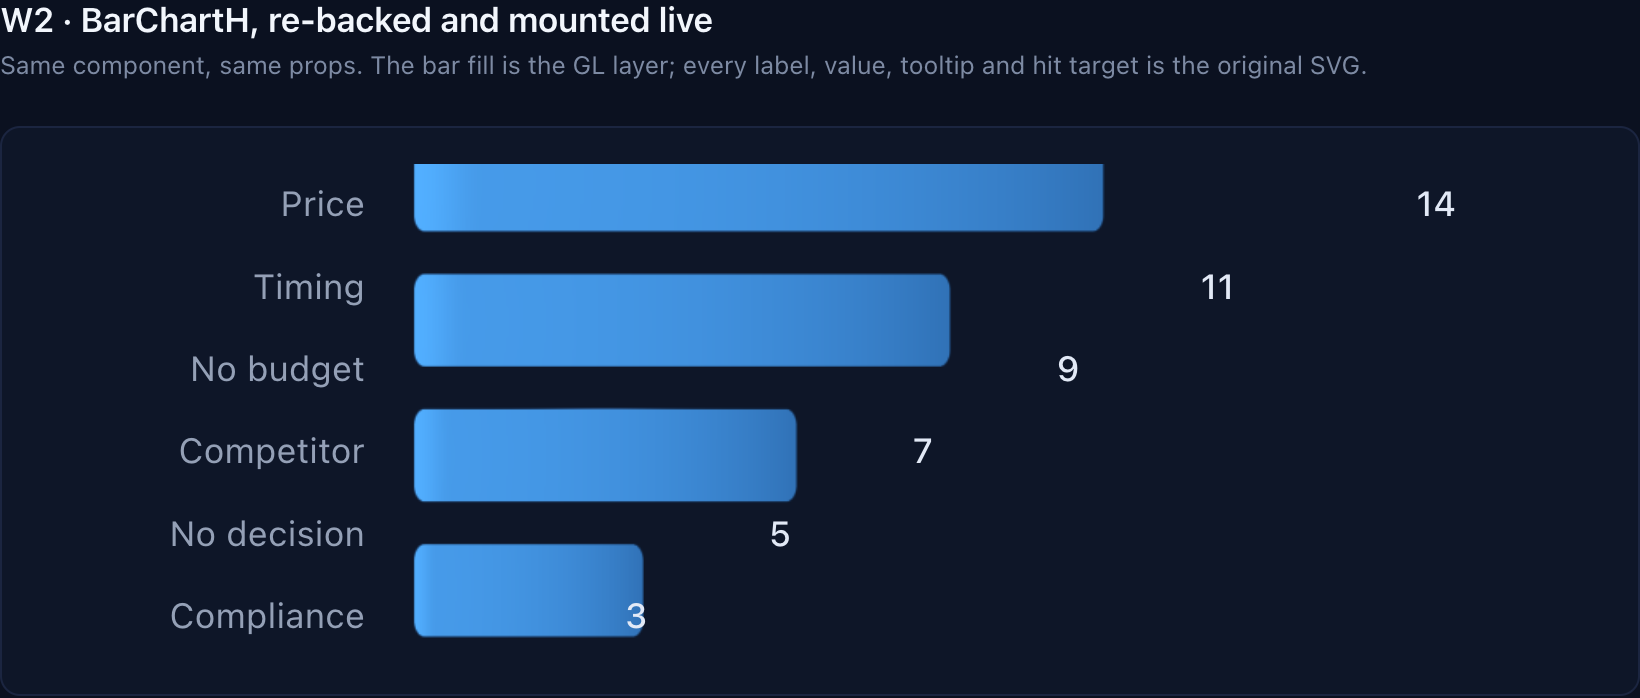
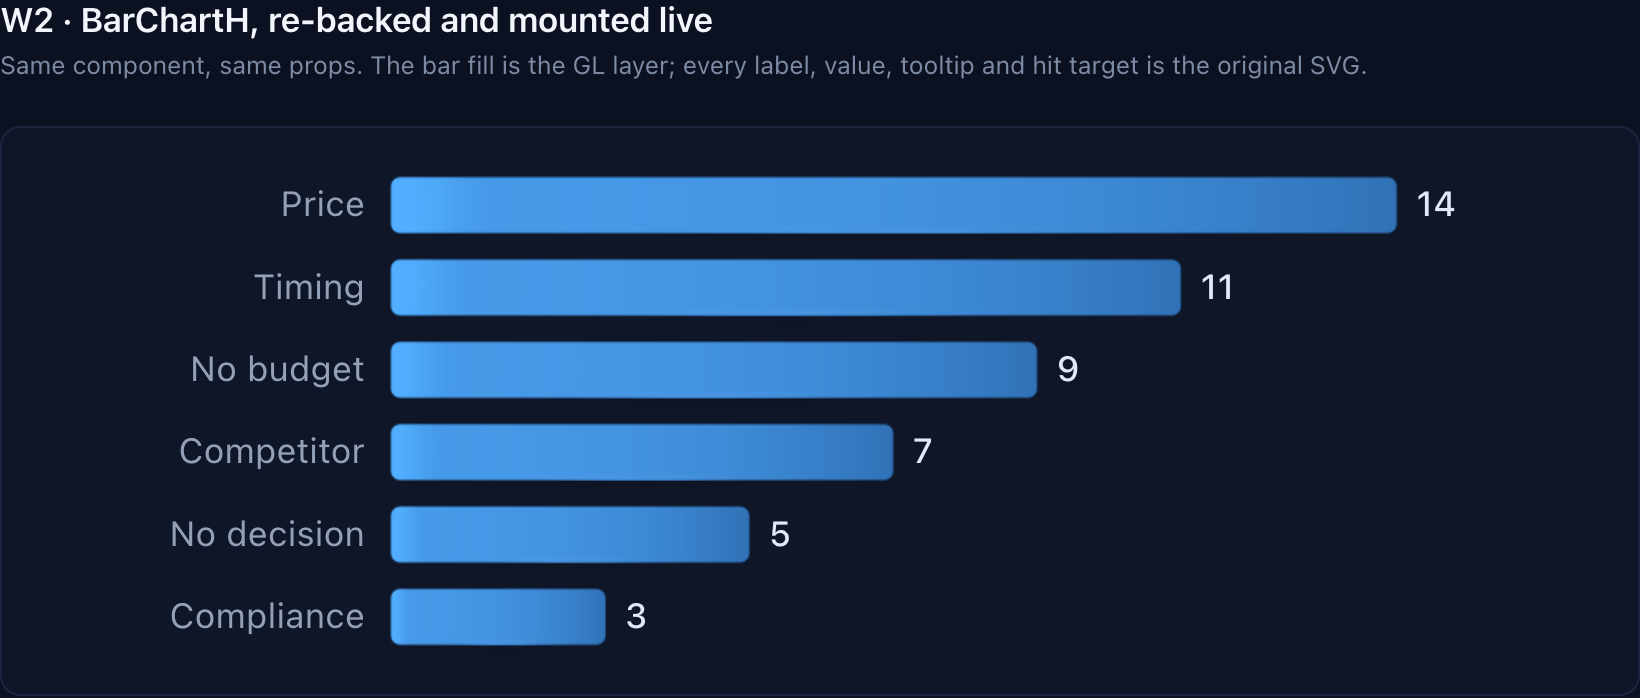
fix(vfx): the BarChartH swap lands — three bugs, all mine, none test-visible
W3's motion shipped with W2 but was unobservable, because no primitive was
swapped and the reason was this. Isolated and fixed.

1. THE VIEWPORT, and it was architectural rather than a slip. bindTarget set the
viewport from the TARGET's size — correct for a stage owning its canvas, silently
wrong for the shared renderer where one 1024x512 buffer serves many charts. It
re-set the viewport to the full buffer AFTER the shared renderer had scissored the
chart's 960x312 region, so every mark rendered 1.64x too large and the bottom rows
fell outside the copied rect. Stage now has a REGION: setRegion(w,h) resizes the
targets and bindTarget reads the viewport from it, reallocating only on an actual
size change so a page of same-sized charts pays for one allocation.

2. The contact shadow did not know which way was down. It hard-coded "below" as
decreasing y; a chart borrowing its host SVG's viewBox counts y DOWNWARD, so the
shadow was cast above each bar and poked through the rounded corner. The direction
is now read off the projection matrix.

3. fwidth(d) — the best of the three. sdRoundRect contains max(q,0) and a length(),
so its derivative is DISCONTINUOUS along the diagonal out of each corner. fwidth
spikes on that seam, the edge smoothstep fires deep inside the shape, and a dark
speck appears — on two bars of six and nothing else, which is exactly the artifact
that gets blamed on the data. The feather now comes from fwidth(p), which is linear
[…]

Changed region(s): [[0.2177, 0.2106, 0.8707, 0.9327]]

diff --git a/packages/gl/src/flat/bars.ts b/packages/gl/src/flat/bars.ts
@@ -101,8 +101,16 @@ void main(){
   vec2 p = (vUV - 0.5) * vSize;
   float r = min(uRadius, min(half_.x, half_.y));
   float d = sdRoundRect(p, half_, r);
-  // One-pixel feather from the exact boundary. Correct at any zoom.
-  float aa = fwidth(d);
+  /* THE FEATHER WIDTH COMES FROM POSITION, NOT FROM THE DISTANCE.
+     This was fwidth(d), which is the obvious form and is wrong: sdRoundRect contains
+     max(q, 0.0) and a length(), so its derivative is DISCONTINUOUS along the diagonal
+     running out of each corner. fwidth spikes on that seam, the smoothstep below fires
+     deep inside the shape, and a small dark speck appears on the diagonal — visible on
+     two of six bars and on nothing else, which is exactly the sort of artifact that gets
+     blamed on the data.
+     p is linear in vUV, so fwidth(p) is constant across the primitive and the feather is
+     one pixel everywhere including across that seam. */
+  float aa = max(fwidth(p.x), fwidth(p.y));
   float mask = 1.0 - smoothstep(-aa, aa, d);
   if (mask <= 0.001) discard;
 
@@ -127,18 +135,26 @@ export const CONTACT_VERT = `#version 300 es
 precision highp float;
 layout(location=0) in vec2 quad;
 layout(location=1) in vec4 rect;
-uniform mat4 uMVP; uniform float uDrop, uSpread, uHorizontal;
+uniform mat4 uMVP; uniform float uDrop, uSpread, uHorizontal, uYSign;
 out vec2 vUV;
 void main(){
   vUV = quad;
+  /* uYSign IS THE PROJECTION'S Y DIRECTION, not an assumption.
+     This shader was written for a y-up plot and hard-coded "below" as y minus drop. A chart
+     borrowing its host SVG's viewBox counts y DOWNWARD, so the shadow was cast ABOVE each
+     bar — mostly hidden behind it, and visible as a dark speck poking through the rounded
+     corner. A shadow that does not know which way is down is not a shadow. */
+  float base = uYSign > 0.0 ? rect.y : rect.w;          // the edge resting on the plate
+  float away = -uYSign;                                  // away from the light, onto the plate
   vec2 lo, hi;
+  float y0 = base + away * (uDrop + uSpread);
+  float y1 = base - away * (uSpread * 0.25);
   if (uHorizontal > 0.5) {
-    // Horizontal bars sit ON the plate; the shadow falls below the whole run.
-    lo = vec2(rect.x, rect.y - uDrop - uSpread);
-    hi = vec2(rect.z + uSpread * 0.5, rect.y + uSpread * 0.25);
+    lo = vec2(rect.x, min(y0, y1));
+    hi = vec2(rect.z + uSpread * 0.5, max(y0, y1));
   } else {
-    lo = vec2(rect.x - uSpread, rect.y - uDrop - uSpread);
-    hi = vec2(rect.z + uSpread, rect.y + uSpread * 0.25);
+    lo = vec2(rect.x - uSpread, min(y0, y1));
+    hi = vec2(rect.z + uSpread, max(y0, y1));
   }
   gl_Position = uMVP * vec4(mix(lo, hi, quad), 0.0, 1.0);
 }`;
@@ -148,10 +164,12 @@ precision highp float;
 in vec2 vUV;
 uniform vec3 uColour; uniform float uStrength;
 out vec4 frag;
+uniform float uContactEdge;
 void main(){
-  // Softest at the top and the edges, densest where the bar meets the plate — which is
-  // where a real contact shadow is densest, and the reason it reads as contact at all.
-  vec2 c = (vUV - vec2(0.5, 1.0));
+  // Softest at the far edge, densest where the bar meets the plate — which is where a real
+  // contact shadow is densest, and the reason it reads as contact at all. uContactEdge
+  // says which end of the quad that is, so the gradient flips with the axis too.
+  vec2 c = (vUV - vec2(0.5, uContactEdge));
   float f = exp(-dot(c * vec2(2.4, 1.6), c * vec2(2.4, 1.6)) * 3.2);
   frag = vec4(uColour * f * uStrength, f * uStrength);
 }`;
@@ -213,9 +231,20 @@ export function createBarBatch(stage: Stage): BarBatch | StageRefusal {
         // Shadow FIRST, so the bar lands on top of it rather than through it.
         gl.useProgram(contactP);
         gl.uniformMatrix4fv(u(contactP, 'uMVP'), false, mvp);
-        gl.uniform1f(u(contactP, 'uDrop'), 0.004);
-        gl.uniform1f(u(contactP, 'uSpread'), 0.030);
+        /* PROPORTIONAL TO THE BAR, not a fixed world constant. These were 0.004 and 0.030,
+           which is 0.2% of a 15-unit plot and 0.006% of a 480-unit one — so on a chart in
+           viewBox units the shadow quad collapsed to sub-pixel and aliased into a visible
+           speck at the corner of a bar. A shadow has to be sized in the same units as the
+           thing casting it. */
+        const bar = bars.reduce((m, b) => Math.max(m, horizontal ? b.y1 - b.y0 : b.x1 - b.x0), 0);
+        gl.uniform1f(u(contactP, 'uDrop'), bar * 0.06);
+        gl.uniform1f(u(contactP, 'uSpread'), bar * 0.42);
         gl.uniform1f(u(contactP, 'uHorizontal'), horizontal ? 1 : 0);
+        // Read off the matrix: element 5 is the y scale, negative when the caller flipped
+        // the axis to match an SVG viewBox.
+        const yUp = (mvp[5] ?? 1) >= 0;
+        gl.uniform1f(u(contactP, 'uYSign'), yUp ? 1 : -1);
+        gl.uniform1f(u(contactP, 'uContactEdge'), yUp ? 1 : 0);
         gl.uniform3f(u(contactP, 'uColour'), 0.02, 0.03, 0.06);
         gl.uniform1f(u(contactP, 'uStrength'), contact);
         gl.drawArraysInstanced(gl.TRIANGLE_STRIP, 0, 4, bars.length);

diff --git a/packages/gl/src/stage.ts b/packages/gl/src/stage.ts
@@ -120,6 +120,11 @@ export interface Stage {
   compile(vertexSrc: string, fragmentSrc: string): WebGLProgram | StageRefusal;
   /** Bind a target (or `null` for the canvas) and set the viewport to match it. */
   bindTarget(t: RenderTarget | null): void;
+  /**
+   * Resize the render region. Reallocates the targets only when the size actually changes,
+   * so a page of same-sized charts pays for one allocation.
+   */
+  setRegion(width: number, height: number): void;
   /** Draw a full-screen triangle with `program`. Owns its own VAO — see the note below. */
   blit(program: WebGLProgram, setUniforms?: (p: WebGLProgram) => void): void;
   dispose(): void;
@@ -167,12 +172,19 @@ export function createStage(canvas: HTMLCanvasElement, opts: StageOptions = {}):
   };
 
   const shift = opts.bloomShift ?? 2;
-  const bw = Math.max(1, W >> shift), bh = Math.max(1, H >> shift);
-  const scene = makeTarget(W, H);
+  /* THE REGION. Targets are allocated to it and `bindTarget` sets the viewport from it.
+     Everything below used the CANVAS size instead, which was correct for a stage that owns
+     its whole canvas and silently wrong for the shared renderer, where one 1024×512 buffer
+     serves many charts: `bindTarget` re-set the viewport to 1024×512 AFTER the shared
+     renderer had scissored a 960×312 region, so the chart rendered at full-buffer scale and
+     the blit copied a window of it — every mark 1.64× too large and the bottom rows cropped
+     clean off. Nothing threw, and the chart merely looked wrong. */
+  let region = { w: W, h: H };
+  let scene = makeTarget(W, H);
   if ('kind' in scene) return scene;
-  const bloomA = makeTarget(bw, bh);
+  let bloomA = makeTarget(Math.max(1, W >> shift), Math.max(1, H >> shift));
   if ('kind' in bloomA) return bloomA;
-  const bloomB = makeTarget(bw, bh);
+  let bloomB = makeTarget(Math.max(1, W >> shift), Math.max(1, H >> shift));
   if ('kind' in bloomB) return bloomB;
 
   /* THE FULL-SCREEN TRIANGLE GETS ITS OWN VAO, AND NOTHING ELSE MAY BIND INTO IT.
@@ -196,14 +208,26 @@ export function createStage(canvas: HTMLCanvasElement, opts: StageOptions = {}):
   const stage: Stage = {
     kind: 'stage',
     gl,
-    width: W,
-    height: H,
     cssWidth: canvas.clientWidth || W,
     cssHeight: canvas.clientHeight || H,
     hdr: Boolean(float),
-    scene,
-    bloomA,
-    bloomB,
+    get width() { return region.w; },
+    get height() { return region.h; },
+    get scene() { return scene as RenderTarget; },
+    get bloomA() { return bloomA as RenderTarget; },
+    get bloomB() { return bloomB as RenderTarget; },
+
+    setRegion(w: number, h: number) {
+      const nw = Math.max(1, Math.round(w)), nh = Math.max(1, Math.round(h));
+      if (nw === region.w && nh === region.h) return;   // repeated same-size charts are free
+      region = { w: nw, h: nh };
+      for (const t of [scene, bloomA, bloomB]) {
+        if (!('kind' in t)) { gl.deleteFramebuffer(t.framebuffer); gl.deleteTexture(t.texture); }
+      }
+      scene = makeTarget(nw, nh);
+      bloomA = makeTarget(Math.max(1, nw >> shift), Math.max(1, nh >> shift));
+      bloomB = makeTarget(Math.max(1, nw >> shift), Math.max(1, nh >> shift));
+    },
 
     compile(vertexSrc, fragmentSrc) {
       const build = (type: number, src: string): WebGLShader | StageRefusal => {
@@ -234,7 +258,8 @@ export function createStage(canvas: HTMLCanvasElement, opts: StageOptions = {}):
 
     bindTarget(t) {
       gl.bindFramebuffer(gl.FRAMEBUFFER, t ? t.framebuffer : null);
-      gl.viewport(0, 0, t ? t.width : W, t ? t.height : H);
+      // The REGION, not the canvas. See the note where `region` is declared.
+      gl.viewport(0, 0, t ? t.width : region.w, t ? t.height : region.h);
     },
 
     blit(program, setUniforms) {
@@ -248,8 +273,7 @@ export function createStage(canvas: HTMLCanvasElement, opts: StageOptions = {}):
     dispose() {
       for (const p of programs) gl.deleteProgram(p);
       for (const t of [scene, bloomA, bloomB]) {
-        gl.deleteFramebuffer(t.framebuffer);
-        gl.deleteTexture(t.texture);
+        if (!('kind' in t)) { gl.deleteFramebuffer(t.framebuffer); gl.deleteTexture(t.texture); }
       }
       gl.deleteBuffer(quadBuf);
       gl.deleteVertexArray(quadVao);

diff --git a/apps/web/src/components/charts/BarChartH.tsx b/apps/web/src/components/charts/BarChartH.tsx
@@ -1,4 +1,6 @@
+import { useEffect, useMemo, useRef, useState } from 'react';
 import { seriesVar } from './palette';
+import { useFlatBars, resolveColour } from './gl/FlatBars';
 import { formatNumber, roundedRightRect, truncate } from './utils';
 import { ChartTooltip, TipContent, useTooltip } from './tooltip';
 
@@ -23,8 +25,19 @@ const ROW_H = 26;
 const BAR_H = 18; // ≤24px thick
 
 /** Horizontal bars: 4px rounded data-end, value at the bar tip in a text token. */
+/**
+ * W2 · re-backed. The SVG below is UNCHANGED except that its bar `<path>` renders only when
+ * the GL layer is not drawing. Every label, value, hit target and tooltip is still SVG and
+ * still exactly what shipped — W0 found this primitive correct, and only its flat fill was
+ * wrong with it.
+ */
 export function BarChartH({ data, formatValue = formatNumber, maxBars }: BarChartHProps) {
   const { tip, show, hide } = useTooltip();
+  const hostRef = useRef<HTMLDivElement | null>(null);
+  /* The colour token cannot resolve until the host is on the DOM — `var(--chart-1)` means
+     nothing off-document, and it differs between light and dark. */
+  const [ready, setReady] = useState(false);
+  useEffect(() => { if (hostRef.current) setReady(true); }, []);
   const rows = maxBars !== undefined ? data.slice(0, Math.max(0, maxBars)) : data;
   if (rows.length === 0) return null;
 
@@ -33,9 +46,31 @@ export function BarChartH({ data, formatValue = formatNumber, maxBars }: BarChar
   const max = Math.max(0, ...rows.map((d) => d.value));
   const w = (v: number) => (max > 0 ? (Math.max(0, v) / max) * plotW : 0);
 
+  /* Bar rectangles in the SVG's own viewBox units, so the two layers cannot drift.
+     MEMOISED: a fresh array each render made `draw` a new function each render, which
+     re-ran the paint effect on every render. */
+  const rects = useMemo(
+    () => rows
+      .map((d, i) => ({
+        x: LABEL_W,
+        y: i * ROW_H + (ROW_H - BAR_H) / 2,
+        w: w(d.value),
+        h: BAR_H,
+        colour: hostRef.current ? resolveColour(d.color ?? seriesVar(1), hostRef.current) : '#2C6BFF',
+      }))
+      .filter((r) => r.w > 0),
+    // eslint-disable-next-line react-hooks/exhaustive-deps
+    [rows, max, ready],
+  );
+
+  const { canvas: glCanvas, refused: glRefused } = useFlatBars({
+    rects, viewW: VW, viewH: VH, orientation: 'horizontal',
+  });
+
   return (
-    <div className="relative w-full">
-      <svg viewBox={`0 0 ${VW} ${VH}`} className="block w-full" style={{ height: 'auto' }} role="img">
+    <div className="relative w-full" ref={hostRef}>
+      {glCanvas}
+      <svg viewBox={`0 0 ${VW} ${VH}`} className="relative z-10 block w-full" style={{ height: 'auto' }} role="img">
         {rows.map((d, i) => {
           const yTop = i * ROW_H + (ROW_H - BAR_H) / 2;
           const cy = i * ROW_H + ROW_H / 2;
@@ -52,7 +87,8 @@ export function BarChartH({ data, formatValue = formatNumber, maxBars }: BarChar
               >
                 {truncate(d.label, 18)}
               </text>
-              {bw > 0 && (
+              {/* THE FALLBACK: server render, print, no WebGL2, or first paint. */}
+              {bw > 0 && glRefused && (
                 <path d={roundedRightRect(LABEL_W, yTop, bw, BAR_H)} fill={d.color ?? seriesVar(1)} />
               )}
               <text

diff --git a/packages/gl/src/flat/shared.ts b/packages/gl/src/flat/shared.ts
@@ -100,6 +100,9 @@ function build(): SharedRenderer | StageRefusal {
         canvas.width = Math.max(canvas.width, w);
         canvas.height = Math.max(canvas.height, h);
       }
+      // The stage's targets and viewport must match THIS chart's region, or bindTarget
+      // will re-set the viewport to the shared buffer's full size behind our back.
+      stage.setRegion(w, h);
       const { gl } = stage;
       /* The chart's region is the BOTTOM-LEFT corner of the shared buffer, because GL's
          origin is bottom-left and that makes the blit below a straight copy with no flip

diff --git a/docs/3d/w2/README.md b/docs/3d/w2/README.md
@@ -43,18 +43,32 @@ final state on frame one, and an environment that cannot read the preference ass
 All three are fixed and all three were invisible to every test — they only appear when a
 transparent layer is composited over real DOM.
 
-## NOT landed: the `BarChartH` swap
+## `BarChartH` is swapped, and the three bugs it took to get there
 
-The integration renders **four bars for six rows**, misaligned with their labels. I did not
-isolate it, so it is reverted rather than shipped.
+It first rendered **four bars for six rows**, stretched and misaligned. All three causes
+were in code I had written, and none was visible to any test.
 
-What is ruled out, measured in the live page: canvas backing 960 × 312, CSS 760 × 247, SVG
-`viewBox="0 0 480 156"`, all 12 text nodes present, GL layer drawing, zero SVG fallback
-paths. The geometry the two layers agree on is right. The standalone bars in `docs/3d/w1`
-render correctly from the same primitive with the same matrix, which narrows it to the
-integration — the memoised `rects`, the colour-token resolution pass, or the instance
-buffer — and not to `flat/bars.ts`.
+**1 · The viewport, and it was an architectural defect rather than a slip.** `bindTarget`
+set the viewport from the TARGET's size. That is correct for a stage owning its own canvas
+and silently wrong for the shared renderer, where one 1024 × 512 buffer serves many charts:
+`bindTarget` re-set the viewport to the full buffer AFTER the shared renderer had scissored
+the chart's 960 × 312 region, so every mark rendered 1.64× too large and the bottom rows fell
+outside the copied rect. The `Stage` now has a REGION — `setRegion(w, h)` resizes the targets
+and `bindTarget` reads the viewport from it, reallocating only when the size actually
+changes, so a page of same-sized charts pays for one allocation.
 
-**The layer is ready; one caller is not.** Shipping a chart that drops a third of its rows
-would be strictly worse than the flat SVG it replaced, and W0's finding was explicitly that
-these primitives are correct and must not be made worse.
+**2 · The contact shadow did not know which way was down.** It hard-coded "below" as
+decreasing y. A chart borrowing its host SVG's viewBox counts y DOWNWARD, so the shadow was
+cast above each bar. The direction is now read off the projection matrix.
+
+**3 · `fwidth(d)` — the antialiasing bug, and the best of the three.** `sdRoundRect`
+contains `max(q, 0.0)` and a `length()`, so its derivative is DISCONTINUOUS along the
+diagonal running out of each corner. `fwidth` spikes on that seam, the edge smoothstep fires
+deep inside the shape, and a small dark speck appears on the diagonal — on two bars of six,
+and on nothing else. Exactly the kind of artifact that gets blamed on the data. The feather
+now comes from `fwidth(p)`: `p` is linear in the quad's coordinates, so it is constant
+across the primitive and one pixel wide everywhere, including across that seam.
+
+The scale of bug 3 is worth noting: the whole visible symptom was two marks about six pixels
+across, and the cause was a real mathematical error in the primitive that would have appeared
+on every rounded shape the layer ever drew.
